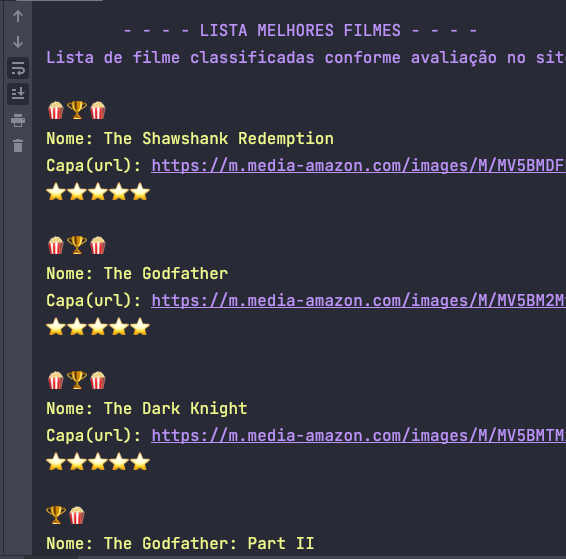
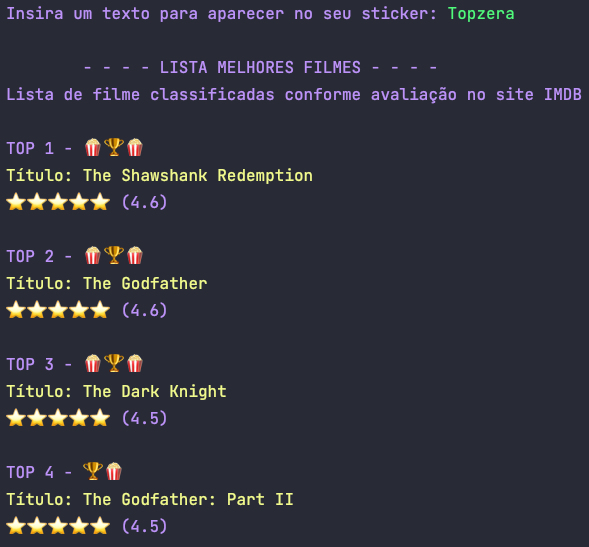
new image

Changed region(s): [[0.0, 0.0, 1.0, 1.0], [0.7509, 0.0, 0.871, 0.0622]]

diff --git a/src/FilmApi.java b/src/FilmApi.java
@@ -1,4 +1,4 @@
-public class FilmApi {
+public class FilmApi implements ConsoleColors{
     private String id;
     private String rank;
     private String title;
@@ -9,7 +9,7 @@ public class FilmApi {
     private String imDbRating;
     private String imDbRatingCount;
 
-    public FilmApi(String id, String rank, String title, String fullTitle, String year, String image, String crew, String imDbRating, String imDbRatingCount) {
+    public FilmApi(String id, String rank, String title, String fullTitle, String year, String image, String crew, String imDbRating, String imDbRatingCount)  {
         this.id = id;
         this.rank = rank;
         this.title = title;
@@ -58,13 +58,14 @@ public class FilmApi {
     }
 
     public void getRatingStar() {
-        int numberStars = (int) Math.ceil((Double.parseDouble(imDbRating) / 2));
+        double rating = Double.parseDouble(imDbRating) / 2;
+        int numberStars = (int) Math.ceil(rating);
 //        String totalStars = " ";
 //        for (int i = 0; i < numberStars; i++) {
 //            totalStars += "⭐";
 //        }
 //        System.out.println(totalStars);
-        System.out.println("" + "⭐".repeat(Math.max(0, numberStars)) + "\n");
+        System.out.println("" + "⭐".repeat(Math.max(0, numberStars)) + ANSI_BLUE + " (" + rating + ")\n");;
     }
 
     public String getEmoticon(int pos) {

diff --git a/src/Main.java b/src/Main.java
@@ -49,7 +49,7 @@ public class Main implements ConsoleColors {
                 sc.nextLine();
             }
 
-            System.out.println("" + film.getEmoticon(i));
+            System.out.println(ANSI_BLUE + "TOP " + (i+1) + " - " + film.getEmoticon(i));
             System.out.println(ANSI_YELLOW + "Título: " + film.getTitle());
             film.getRatingStar();
         }

diff --git a/src/ConsoleColors.java b/src/ConsoleColors.java
@@ -2,4 +2,6 @@ public interface ConsoleColors {
     public static final String ANSI_YELLOW = "\u001B[33m";
     public static final String ANSI_RED = "\u001B[31m";
     public static final String ANSI_BLUE = "\u001B[34m";
+    public static final String ANSI_BLUE_BACKGROUND = "\u001B[44m";
+
 }
